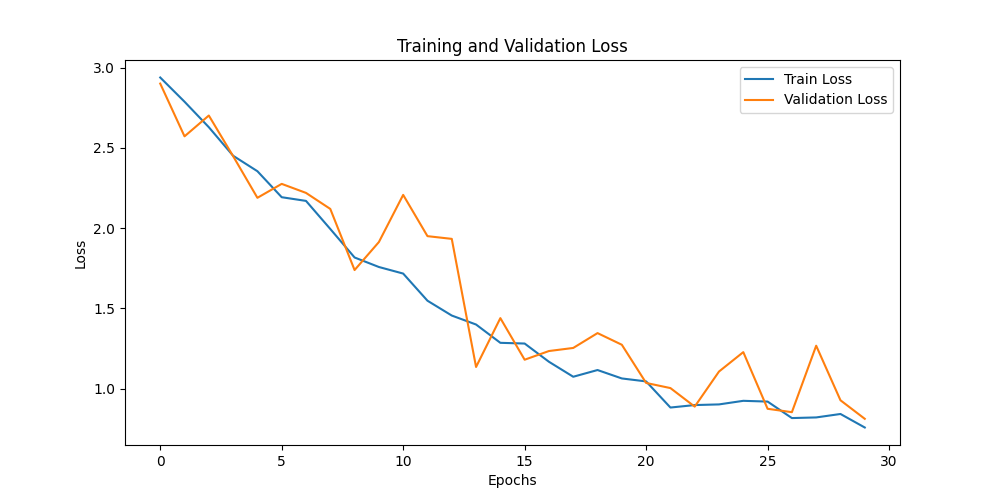
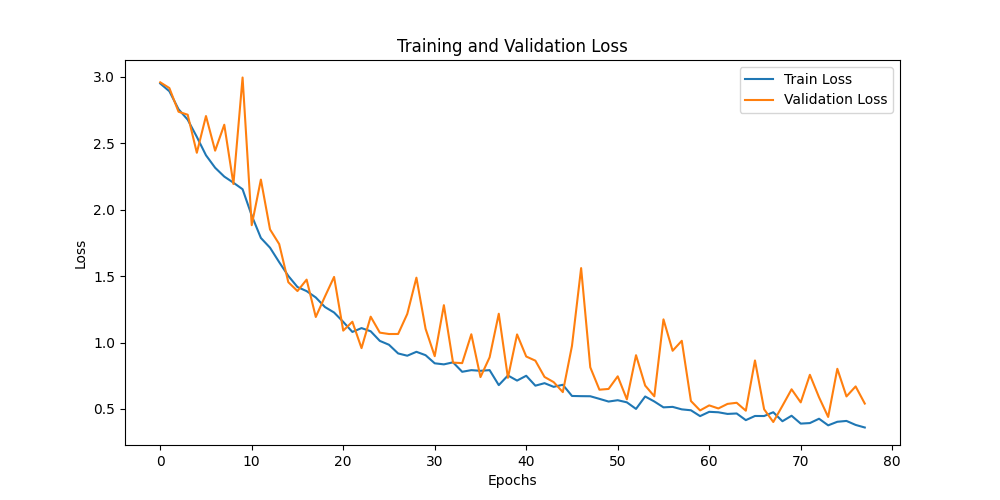
Autoencoder_finally_trained

diff --git a/RedNeuronal/train.py b/RedNeuronal/train.py
@@ -38,14 +38,14 @@ def train_model(output_folder: Path, device: torch.device, trained_model):
         transforms.RandomHorizontalFlip(p=0.5),
         transforms.RandomRotation(degrees=15),
         transforms.ColorJitter(brightness=0.2, contrast=0.2),
-        transforms.ToTensor(),    
-        transforms.Resize((224, 224)),   
+        transforms.Resize((224, 224)), 
+        transforms.ToTensor(),      
         transforms.Normalize(mean=[0.485, 0.456, 0.406], std=[0.229, 0.224, 0.225])
     ])
 
     val_transforms = transforms.Compose([
-        transforms.ToTensor(),      
-        transforms.Resize((224, 224)),   
+        transforms.Resize((224, 224)), 
+        transforms.ToTensor(),         
         transforms.Normalize(mean=[0.485, 0.456, 0.406], std=[0.229, 0.224, 0.225])
     ])
 
@@ -62,10 +62,19 @@ def train_model(output_folder: Path, device: torch.device, trained_model):
     model = EncoderWithClassifier(hidden_size=384, num_labels=19, freeze_encoder= False)
     model = model.to(device)
     criterion = nn.CrossEntropyLoss()
-    optimizer = optim.AdamW(model.parameters(), lr=1e-4)
+    # Ejemplo de configuración del optimizador
+    encoder_params = list(model.encoder.parameters())
+    classifier_params = list(model.classifier.parameters())
+
+    #Para entrenar rápidamente la cabeza, manteniendo "mas o menos" los parámetros del encoder -> FINE TUNNING
+    optimizer = torch.optim.AdamW([
+        {'params': encoder_params, 'lr': 1e-5},  
+        {'params': classifier_params, 'lr': 1e-3} 
+    ], weight_decay=1e-4)
 
     # Training loop with validation and saving best weights
-    num_epochs = 30
+    num_epochs = 100
+    patience = 10
     best_val_loss = float("inf")
     output_folder = Path(output_folder)
     best_model_path = (
@@ -108,18 +117,25 @@ def train_model(output_folder: Path, device: torch.device, trained_model):
         if val_loss < best_val_loss:
             best_val_loss = val_loss
             torch.save(model.state_dict(), best_model_path)
+            patience_counter = 0 
+        else:
+            patience_counter += 1 
 
         if (epoch + 1) % 5 == 0:
-            print(
-                f"Epoch [{epoch + 1}/{num_epochs}], Train Loss: {train_loss:.4f}, Validation Loss: {val_loss:.4f}"
-            )
+            print(f"Epoch [{epoch + 1}/{num_epochs}], Train Loss: {train_loss:.4f}, Validation Loss: {val_loss:.4f}")
+
+        # Comprobación del Early Stopping
+        if patience_counter >= patience:
+            print(f"\n¡Early stopping activado en la época {epoch + 1}! La validación no ha mejorado en {patience} épocas.")
+            break # Rompe el bucle fo
 
     print(f"Best validation loss: {best_val_loss:.4f}, Model saved to {best_model_path}")
 
     # Plotting the training and validation loss
     plt.figure(figsize=(10, 5))
-    plt.plot(range(num_epochs), train_losses, label="Train Loss")
-    plt.plot(range(num_epochs), val_losses, label="Validation Loss")
+    plt.plot(range(len(train_losses)), train_losses, label="Train Loss")
+    plt.plot(range(len(val_losses)), val_losses, label="Validation Loss")
+
     plt.xlabel("Epochs")
     plt.ylabel("Loss")
     plt.legend()
@@ -127,7 +143,7 @@ def train_model(output_folder: Path, device: torch.device, trained_model):
 
     # Save the plot to the outs/ folder
     plt.savefig(output_folder / "loss_plot.png")
-    plt.savefig(output_folder / "loss_plot.png")
+    plt.show()
     plt.close()
 
 
